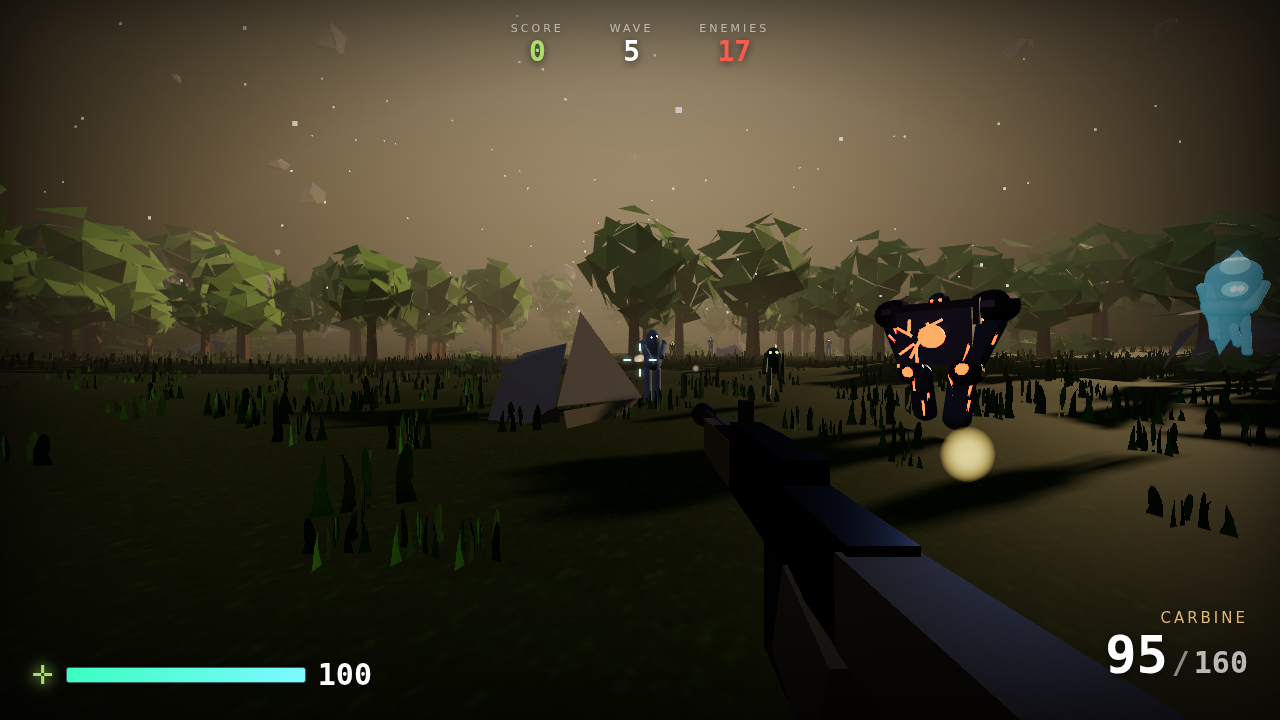
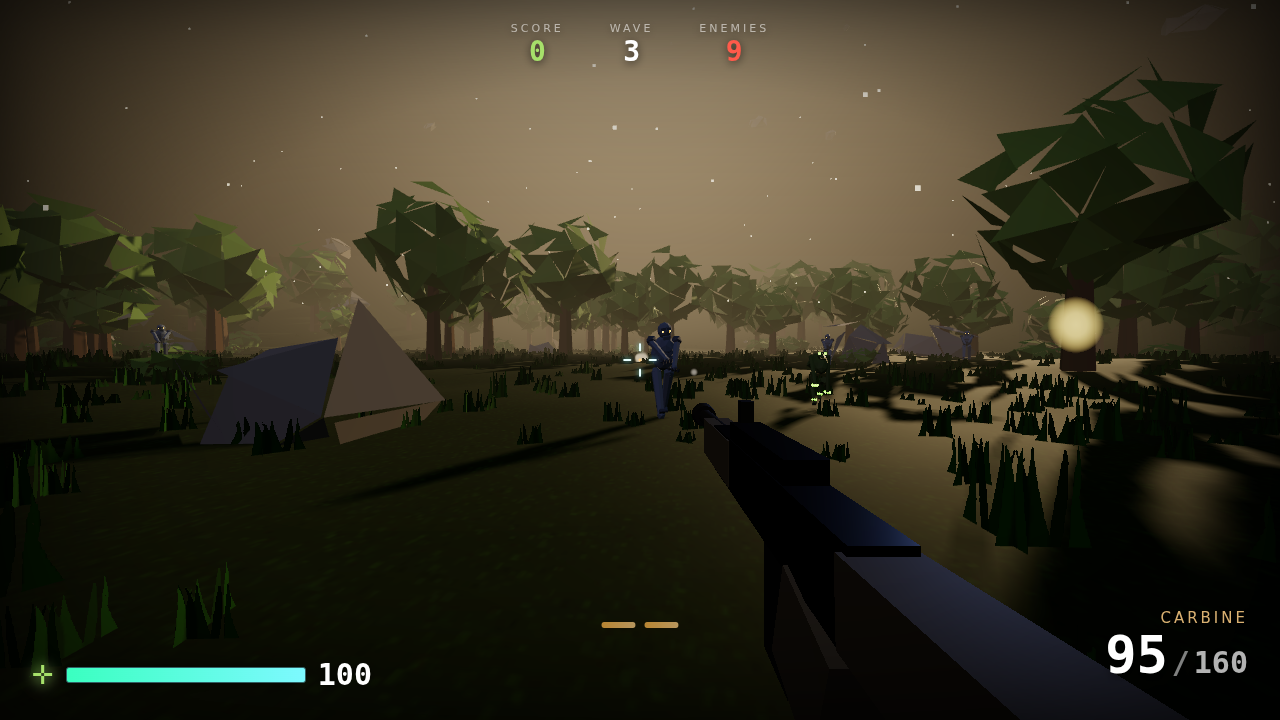
Faster enemies + a faceted low-poly redesign (no more cylinders)
Speed: enemies are noticeably quicker so they close in and pressure you —
husk 2.6->4.0, stalker 6.0->8.4 (nearly your run speed, plus lunges),
wisp 3.4->4.8, juggernaut 1.7->2.4, bloater 1.9->2.7, colossus 2.2->2.9.

Looks: skin is now FLAT-SHADED and faceted so creatures read as stylised
low-poly art like the trees/rocks, not smooth grey cylinders. Limbs are
tapered hexagonal bones with chunky faceted joints and knuckles instead of
uniform capsules.
- Husk: a gaunt hunched ghoul — angular skull with brow + jutting jaw, an
  exposed ribcage, bony shoulders, and long clawed arms.
- Stalker: a lean raptor-predator — angular body, counterbalancing tail,
  a glowing dorsal spine, an elongated fanged muzzle, and glowing claws on
  hands and feet.
- Bloater/wisp/juggernaut/colossus all pick up the faceted skin + joints.

Hit meshes preserved; verified gun kills all types and 0 console errors.

diff --git a/duskfall/src/enemies/enemy.js b/duskfall/src/enemies/enemy.js
@@ -17,33 +17,33 @@ const WHITE = new THREE.Color(0xffffff);
 
 const TYPES = {
   husk: {
-    hp: 70, speed: 2.6, radius: 0.42, height: 1.9, damage: 12, attackCd: 1.1, score: 100,
+    hp: 70, speed: 4.0, radius: 0.42, height: 1.9, damage: 12, attackCd: 1.1, score: 100,
     skin: 0x59636f, accent: 0xffab33, blood: 0x6b3b2a, rate: 5.5, reach: 0.9,
     gait: 'walk', headY: 0.78, build: buildHusk,
   },
   stalker: {
-    hp: 42, speed: 6.0, radius: 0.36, height: 1.55, damage: 9, attackCd: 0.8, score: 150,
-    skin: 0x2e3b24, accent: 0x74ff2e, blood: 0x3f6a1e, rate: 12, reach: 0.7,
+    hp: 42, speed: 8.4, radius: 0.36, height: 1.55, damage: 9, attackCd: 0.8, score: 150,
+    skin: 0x44552f, accent: 0x74ff2e, blood: 0x3f6a1e, rate: 12, reach: 0.7,
     gait: 'run', headY: 0.66, weave: 2.0, lunge: true, build: buildStalker,
   },
   juggernaut: {
-    hp: 340, speed: 1.7, radius: 0.95, height: 2.85, damage: 34, attackCd: 1.6, score: 350,
+    hp: 340, speed: 2.4, radius: 0.95, height: 2.85, damage: 34, attackCd: 1.6, score: 350,
     skin: 0x41444f, accent: 0xff3311, blood: 0xff5a22, rate: 3.4, reach: 1.4,
     gait: 'stomp', headY: 0.82, stomp: true, deathTrauma: 0.28, build: buildJuggernaut,
   },
   wisp: {
-    hp: 88, speed: 3.4, radius: 0.44, height: 2.1, damage: 14, attackCd: 1.0, score: 200,
+    hp: 88, speed: 4.8, radius: 0.44, height: 2.1, damage: 14, attackCd: 1.0, score: 200,
     skin: 0x9fd6e2, accent: 0x33ddff, blood: 0x33ddff, rate: 4, reach: 0.9,
     gait: 'float', headY: 0.74, hover: 1.15, deathStyle: 'dissolve', build: buildWisp,
   },
   bloater: {
-    hp: 165, speed: 1.9, radius: 0.7, height: 2.2, damage: 20, attackCd: 1.4, score: 250,
+    hp: 165, speed: 2.7, radius: 0.7, height: 2.2, damage: 20, attackCd: 1.4, score: 250,
     skin: 0x7c7a34, accent: 0xff8a1e, blood: 0x9fb830, rate: 4.5, reach: 1.1,
     gait: 'waddle', headY: 0.8, burst: true, build: buildBloater,
   },
   // --- BOSS: a towering molten titan that slams and calls in reinforcements ---
   colossus: {
-    hp: 1600, speed: 2.2, radius: 1.7, height: 5.0, damage: 42, attackCd: 2.4, score: 3000,
+    hp: 1600, speed: 2.9, radius: 1.7, height: 5.0, damage: 42, attackCd: 2.4, score: 3000,
     skin: 0x4a3a3e, accent: 0xff4416, blood: 0xff6a22, rate: 2.4, reach: 3.4,
     gait: 'stomp', headY: 0.9, stomp: true, deathTrauma: 0.7, boss: true, name: 'THE COLOSSUS',
     build: buildColossus,
@@ -52,22 +52,44 @@ const TYPES = {
 
 // --- material + primitive helpers ----------------------------------------
 
-function skinMat(color, rough = 0.78, flat = false) {
-  return new THREE.MeshStandardMaterial({ color, roughness: rough, metalness: 0.0, flatShading: flat });
+// Skin is FLAT-SHADED by default so creatures read as faceted low-poly art
+// (matching the trees/rocks), not smooth grey cylinders.
+function skinMat(color, rough = 0.85) {
+  return new THREE.MeshStandardMaterial({ color, roughness: rough, metalness: 0.0, flatShading: true });
 }
 // a self-lit accent that bursts through the bloom threshold at dusk
 function glowMat(color, ei = 2.6) {
   return new THREE.MeshStandardMaterial({ color: 0x0a0a0a, emissive: color, emissiveIntensity: ei, roughness: 0.4, metalness: 0 });
 }
-// a group whose child mesh hangs down from the pivot (a bone). returns {group, mesh}
-function bone(mat, r, len, taper = 1) {
+function shade(hex, amt) { return new THREE.Color(hex).lerp(new THREE.Color(0x000000), amt).getHex(); }
+
+// A bone: a tapered, faceted limb (hexagonal cross-section) with a chunky joint
+// at the pivot and a knuckle/knob at the end — reads as a real limb, not a pipe.
+// returns {group, mesh}; mesh is the tapered shaft used for hit detection.
+function bone(mat, rTop, len, rBottom = null) {
+  const rb = rBottom == null ? rTop * 0.68 : rBottom;
   const g = new THREE.Group();
-  const geo = new THREE.CapsuleGeometry(r, Math.max(0.01, len - r * 2), 4, 8);
-  if (taper !== 1) geo.scale(1, 1, 1);
+  const geo = new THREE.CylinderGeometry(rTop, rb, len, 6, 1);
+  geo.translate(0, -len / 2, 0);
   const m = new THREE.Mesh(geo, mat);
-  m.position.y = -len / 2; m.castShadow = true;
-  g.add(m);
+  m.castShadow = true; g.add(m);
+  const joint = new THREE.Mesh(new THREE.IcosahedronGeometry(rTop * 1.08, 0), mat);
+  joint.castShadow = true; g.add(joint);
+  const knob = new THREE.Mesh(new THREE.IcosahedronGeometry(rb * 1.35, 0), mat);
+  knob.position.y = -len; knob.castShadow = true; g.add(knob);
   return { group: g, mesh: m };
+}
+
+// A little cluster of claws (angular cones) fanned around a point, facing +z/down.
+function claws(mat, n, size, spread) {
+  const g = new THREE.Group();
+  for (let i = 0; i < n; i++) {
+    const c = new THREE.Mesh(new THREE.ConeGeometry(size * 0.34, size, 4), mat);
+    c.position.set((i - (n - 1) / 2) * spread, -size * 0.4, 0);
+    c.rotation.x = Math.PI * 0.62; c.castShadow = true;
+    g.add(c);
+  }
+  return g;
 }
 
 // ==========================================================================
@@ -76,93 +98,134 @@ function bone(mat, r, len, taper = 1) {
 
 function buildHusk(def) {
   const s = def.height / 1.9;
-  const skin = skinMat(def.skin, 0.82);
-  const eyeM = glowMat(def.accent, 3.0);
-  const materials = [skin, eyeM];
+  const skin = skinMat(def.skin, 0.85);
+  const bone_ = skinMat(shade(def.skin, 0.42), 0.8);   // darker bony detail
+  const eyeM = glowMat(def.accent, 3.2);
+  const materials = [skin, bone_, eyeM];
   const root = new THREE.Group();
   const hitMeshes = [];
 
   const hipH = 0.98 * s;
   const pelvis = new THREE.Group(); pelvis.position.y = hipH; root.add(pelvis);
 
-  const torso = new THREE.Mesh(new THREE.CapsuleGeometry(0.25 * s, 0.52 * s, 5, 10), skin);
-  torso.position.y = 0.42 * s; torso.castShadow = true; pelvis.add(torso);
+  // gaunt, hunched ribcage torso (faceted, tapered to a thin waist)
+  const torso = new THREE.Mesh(new THREE.IcosahedronGeometry(0.3 * s, 1), skin);
+  torso.scale.set(0.92, 1.28, 0.68); torso.position.set(0, 0.42 * s, 0.02 * s);
+  torso.castShadow = true; pelvis.add(torso);
   torso.userData.hit = 'body'; hitMeshes.push(torso);
-  // gaunt shoulders
+  // exposed ribs
+  for (let i = 0; i < 3; i++) {
+    const rib = new THREE.Mesh(new THREE.TorusGeometry(0.17 * s - i * 0.012 * s, 0.018 * s, 4, 8, Math.PI), bone_);
+    rib.position.set(0, 0.55 * s - i * 0.12 * s, 0.13 * s); rib.rotation.x = Math.PI / 2 + 0.3; pelvis.add(rib);
+  }
+  // clavicle / bony shoulders
   for (const sx of [-1, 1]) {
-    const sh = new THREE.Mesh(new THREE.SphereGeometry(0.12 * s, 8, 7), skin);
-    sh.position.set(sx * 0.28 * s, 0.66 * s, 0); sh.castShadow = true; pelvis.add(sh);
+    const sh = new THREE.Mesh(new THREE.IcosahedronGeometry(0.12 * s, 0), bone_);
+    sh.position.set(sx * 0.27 * s, 0.68 * s, 0); sh.castShadow = true; pelvis.add(sh);
   }
 
-  const headG = new THREE.Group(); headG.position.y = 0.86 * s; pelvis.add(headG);
-  const head = new THREE.Mesh(new THREE.SphereGeometry(0.18 * s, 12, 10), skin);
-  head.scale.set(1, 1.14, 1.06); head.castShadow = true; headG.add(head);
+  // skull head: angular cranium + jutting jaw + brow ridge, sunk on a thin neck
+  const neck = new THREE.Mesh(new THREE.CylinderGeometry(0.06 * s, 0.08 * s, 0.16 * s, 6), skin);
+  neck.position.y = 0.76 * s; pelvis.add(neck);
+  const headG = new THREE.Group(); headG.position.set(0, 0.9 * s, 0.03 * s); pelvis.add(headG);
+  const head = new THREE.Mesh(new THREE.IcosahedronGeometry(0.17 * s, 1), skin);
+  head.scale.set(0.92, 1.05, 1.1); head.castShadow = true; headG.add(head);
   head.userData.hit = 'head'; hitMeshes.push(head);
-  const jaw = new THREE.Mesh(new THREE.BoxGeometry(0.15 * s, 0.09 * s, 0.15 * s), skin);
-  jaw.position.set(0, -0.11 * s, 0.11 * s); headG.add(jaw);
+  const brow = new THREE.Mesh(new THREE.BoxGeometry(0.2 * s, 0.05 * s, 0.08 * s), bone_);
+  brow.position.set(0, 0.05 * s, 0.13 * s); brow.rotation.x = -0.2; headG.add(brow);
+  const jaw = new THREE.Mesh(new THREE.BoxGeometry(0.15 * s, 0.08 * s, 0.16 * s), skin);
+  jaw.position.set(0, -0.12 * s, 0.1 * s); jaw.rotation.x = 0.15; headG.add(jaw);
   for (const sx of [-1, 1]) {
-    const eye = new THREE.Mesh(new THREE.SphereGeometry(0.032 * s, 6, 6), eyeM);
-    eye.position.set(sx * 0.075 * s, 0.02 * s, 0.15 * s); headG.add(eye);
+    const eye = new THREE.Mesh(new THREE.SphereGeometry(0.03 * s, 6, 6), eyeM);
+    eye.position.set(sx * 0.07 * s, 0.0, 0.13 * s); headG.add(eye);
   }
 
   const parts = { pelvis, torso, head: headG, hipH, s };
-  const armL = bone(skin, 0.085 * s, 0.74 * s); armL.group.position.set(-0.3 * s, 0.64 * s, 0);
-  const armR = bone(skin, 0.085 * s, 0.74 * s); armR.group.position.set(0.3 * s, 0.64 * s, 0);
-  pelvis.add(armL.group, armR.group); parts.armL = armL.group; parts.armR = armR.group;
-  hitMeshes.push(armL.mesh, armR.mesh);
-  const legL = bone(skin, 0.11 * s, hipH); legL.group.position.set(-0.14 * s, hipH, 0);
-  const legR = bone(skin, 0.11 * s, hipH); legR.group.position.set(0.14 * s, hipH, 0);
+  // long gangly arms ending in claws
+  for (const sx of [-1, 1]) {
+    const arm = bone(skin, 0.08 * s, 0.76 * s, 0.05 * s);
+    arm.group.position.set(sx * 0.28 * s, 0.66 * s, 0);
+    arm.group.add(placedClaws(bone_, 4, 0.12 * s, 0.06 * s, -0.76 * s));
+    pelvis.add(arm.group); parts[sx < 0 ? 'armL' : 'armR'] = arm.group; hitMeshes.push(arm.mesh);
+  }
+  // legs
+  const legL = bone(skin, 0.11 * s, hipH, 0.07 * s); legL.group.position.set(-0.14 * s, hipH, 0);
+  const legR = bone(skin, 0.11 * s, hipH, 0.07 * s); legR.group.position.set(0.14 * s, hipH, 0);
+  for (const [l, sx] of [[legL, -1], [legR, 1]]) {
+    const foot = new THREE.Mesh(new THREE.BoxGeometry(0.11 * s, 0.06 * s, 0.24 * s), bone_);
+    foot.position.set(0, -hipH + 0.03 * s, 0.06 * s); l.group.add(foot);
+  }
   root.add(legL.group, legR.group); parts.legL = legL.group; parts.legR = legR.group;
   hitMeshes.push(legL.mesh, legR.mesh);
 
   return { root, parts, hitMeshes, skinMats: [skin], materials };
 }
 
+// A claw cluster placed at the end of a limb group (y = endY).
+function placedClaws(mat, n, size, spread, endY) {
+  const g = claws(mat, n, size, spread);
+  g.position.set(0, endY, 0.02);
+  return g;
+}
+
 function buildStalker(def) {
   const s = def.height / 1.55;
-  const skin = skinMat(def.skin, 0.7, true);
-  const glow = glowMat(def.accent, 2.0);
-  const materials = [skin, glow];
+  const skin = skinMat(def.skin, 0.7);
+  const belly = skinMat(shade(def.skin, 0.35), 0.7);
+  const glow = glowMat(def.accent, 2.1);
+  const materials = [skin, belly, glow];
   const root = new THREE.Group();
   const hitMeshes = [];
 
   const hipH = 0.86 * s;
   const pelvis = new THREE.Group(); pelvis.position.y = hipH; root.add(pelvis);
-  // torso pitched forward (raptor stance); pivot leans it in animation
-  const torso = new THREE.Mesh(new THREE.CapsuleGeometry(0.19 * s, 0.56 * s, 5, 10), skin);
-  torso.position.set(0, 0.3 * s, 0.14 * s); torso.rotation.x = 0.8; torso.castShadow = true; pelvis.add(torso);
+  // lean, angular torso pitched forward (raptor stance)
+  const torso = new THREE.Mesh(new THREE.IcosahedronGeometry(0.24 * s, 1), skin);
+  torso.scale.set(0.8, 0.82, 1.5); torso.position.set(0, 0.28 * s, 0.18 * s); torso.rotation.x = 0.5;
+  torso.castShadow = true; pelvis.add(torso);
   torso.userData.hit = 'body'; hitMeshes.push(torso);
-  // dorsal spine of glowing barbs
-  for (let i = 0; i < 5; i++) {
-    const b = new THREE.Mesh(new THREE.ConeGeometry(0.03 * s, 0.14 * s, 5), glow);
-    b.position.set(0, 0.16 * s + i * 0.11 * s, 0.02 * s - i * 0.12 * s);
-    b.rotation.x = -0.6; pelvis.add(b);
+  // a long tail counterbalancing the lunge
+  const tail = new THREE.Mesh(new THREE.ConeGeometry(0.12 * s, 0.95 * s, 5), skin);
+  tail.position.set(0, 0.2 * s, -0.5 * s); tail.rotation.x = Math.PI / 2 - 0.35; tail.castShadow = true; pelvis.add(tail);
+  // dorsal spine of glowing barbs, tallest over the shoulders
+  for (let i = 0; i < 6; i++) {
+    const h = (0.18 - Math.abs(i - 2) * 0.03) * s;
+    const barb = new THREE.Mesh(new THREE.ConeGeometry(0.035 * s, h, 4), glow);
+    barb.position.set(0, 0.34 * s - i * 0.05 * s, 0.12 * s - i * 0.14 * s);
+    barb.rotation.x = -0.5; pelvis.add(barb);
   }
-  // neck thrusts head forward and low
-  const headG = new THREE.Group(); headG.position.set(0, 0.52 * s, 0.4 * s); pelvis.add(headG);
-  const head = new THREE.Mesh(new THREE.SphereGeometry(0.15 * s, 10, 9), skin);
-  head.scale.set(0.9, 0.8, 1.35); head.castShadow = true; headG.add(head);
-  head.userData.hit = 'head'; hitMeshes.push(head);
+  // elongated angular muzzle-head thrust forward and low, with a maw + fangs
+  const headG = new THREE.Group(); headG.position.set(0, 0.5 * s, 0.42 * s); pelvis.add(headG);
+  const skull = new THREE.Mesh(new THREE.IcosahedronGeometry(0.13 * s, 0), skin);
+  skull.scale.set(0.85, 0.8, 1.0); skull.castShadow = true; headG.add(skull);
+  const snout = new THREE.Mesh(new THREE.ConeGeometry(0.09 * s, 0.28 * s, 4), skin);
+  snout.position.set(0, -0.01 * s, 0.18 * s); snout.rotation.x = Math.PI / 2; snout.castShadow = true; headG.add(snout);
+  skull.userData.hit = 'head'; hitMeshes.push(skull);
+  const maw = new THREE.Mesh(new THREE.BoxGeometry(0.11 * s, 0.03 * s, 0.22 * s), belly);
+  maw.position.set(0, -0.05 * s, 0.14 * s); headG.add(maw);
   for (const sx of [-1, 1]) {
-    const eye = new THREE.Mesh(new THREE.SphereGeometry(0.04 * s, 6, 6), glow);
-    eye.position.set(sx * 0.07 * s, 0.05 * s, 0.13 * s); headG.add(eye);
+    const eye = new THREE.Mesh(new THREE.SphereGeometry(0.035 * s, 6, 6), glow);
+    eye.position.set(sx * 0.06 * s, 0.05 * s, 0.06 * s); headG.add(eye);
   }
 
   const parts = { pelvis, torso, head: headG, hipH, s };
-  // long grasping arms hung forward
-  const armL = bone(skin, 0.06 * s, 0.8 * s); armL.group.position.set(-0.2 * s, 0.5 * s, 0.14 * s); armL.group.rotation.x = -0.5;
-  const armR = bone(skin, 0.06 * s, 0.8 * s); armR.group.position.set(0.2 * s, 0.5 * s, 0.14 * s); armR.group.rotation.x = -0.5;
-  pelvis.add(armL.group, armR.group); parts.armL = armL.group; parts.armR = armR.group;
-  hitMeshes.push(armL.mesh, armR.mesh);
-  // digitigrade legs: a bent knee baked in (thigh forward, shin back)
+  // long grasping arms hung forward, tipped with claws
+  for (const sx of [-1, 1]) {
+    const arm = bone(skin, 0.055 * s, 0.82 * s, 0.035 * s);
+    arm.group.position.set(sx * 0.19 * s, 0.42 * s, 0.16 * s); arm.group.rotation.x = -0.5;
+    arm.group.add(placedClaws(glow, 3, 0.11 * s, 0.05 * s, -0.82 * s));
+    pelvis.add(arm.group); parts[sx < 0 ? 'armL' : 'armR'] = arm.group; hitMeshes.push(arm.mesh);
+  }
+  // digitigrade legs with a baked knee and a clawed foot
   const mkLeg = (sx) => {
     const g = new THREE.Group(); g.position.set(sx * 0.13 * s, hipH, 0);
-    const thigh = new THREE.Mesh(new THREE.CapsuleGeometry(0.07 * s, 0.34 * s, 4, 8), skin);
-    thigh.position.set(0, -0.22 * s, 0.1 * s); thigh.rotation.x = 0.5; thigh.castShadow = true; g.add(thigh);
-    const shin = new THREE.Mesh(new THREE.CapsuleGeometry(0.055 * s, 0.36 * s, 4, 8), skin);
-    shin.position.set(0, -0.55 * s, -0.02 * s); shin.rotation.x = -0.35; shin.castShadow = true; g.add(shin);
-    const foot = new THREE.Mesh(new THREE.BoxGeometry(0.09 * s, 0.05 * s, 0.24 * s), skin);
-    foot.position.set(0, -0.82 * s, 0.06 * s); g.add(foot);
+    const thigh = new THREE.Mesh(new THREE.CylinderGeometry(0.08 * s, 0.055 * s, 0.36 * s, 6), skin);
+    thigh.position.set(0, -0.2 * s, 0.1 * s); thigh.rotation.x = 0.5; thigh.castShadow = true; g.add(thigh);
+    const shin = new THREE.Mesh(new THREE.CylinderGeometry(0.05 * s, 0.03 * s, 0.4 * s, 6), skin);
+    shin.position.set(0, -0.54 * s, -0.03 * s); shin.rotation.x = -0.38; shin.castShadow = true; g.add(shin);
+    const foot = new THREE.Mesh(new THREE.BoxGeometry(0.08 * s, 0.045 * s, 0.2 * s), skin);
+    foot.position.set(0, -0.8 * s, 0.08 * s); g.add(foot);
+    foot.add(placedClaws(glow, 3, 0.07 * s, 0.045 * s, 0.11 * s));
     hitMeshes.push(thigh, shin);
     return g;
   };
